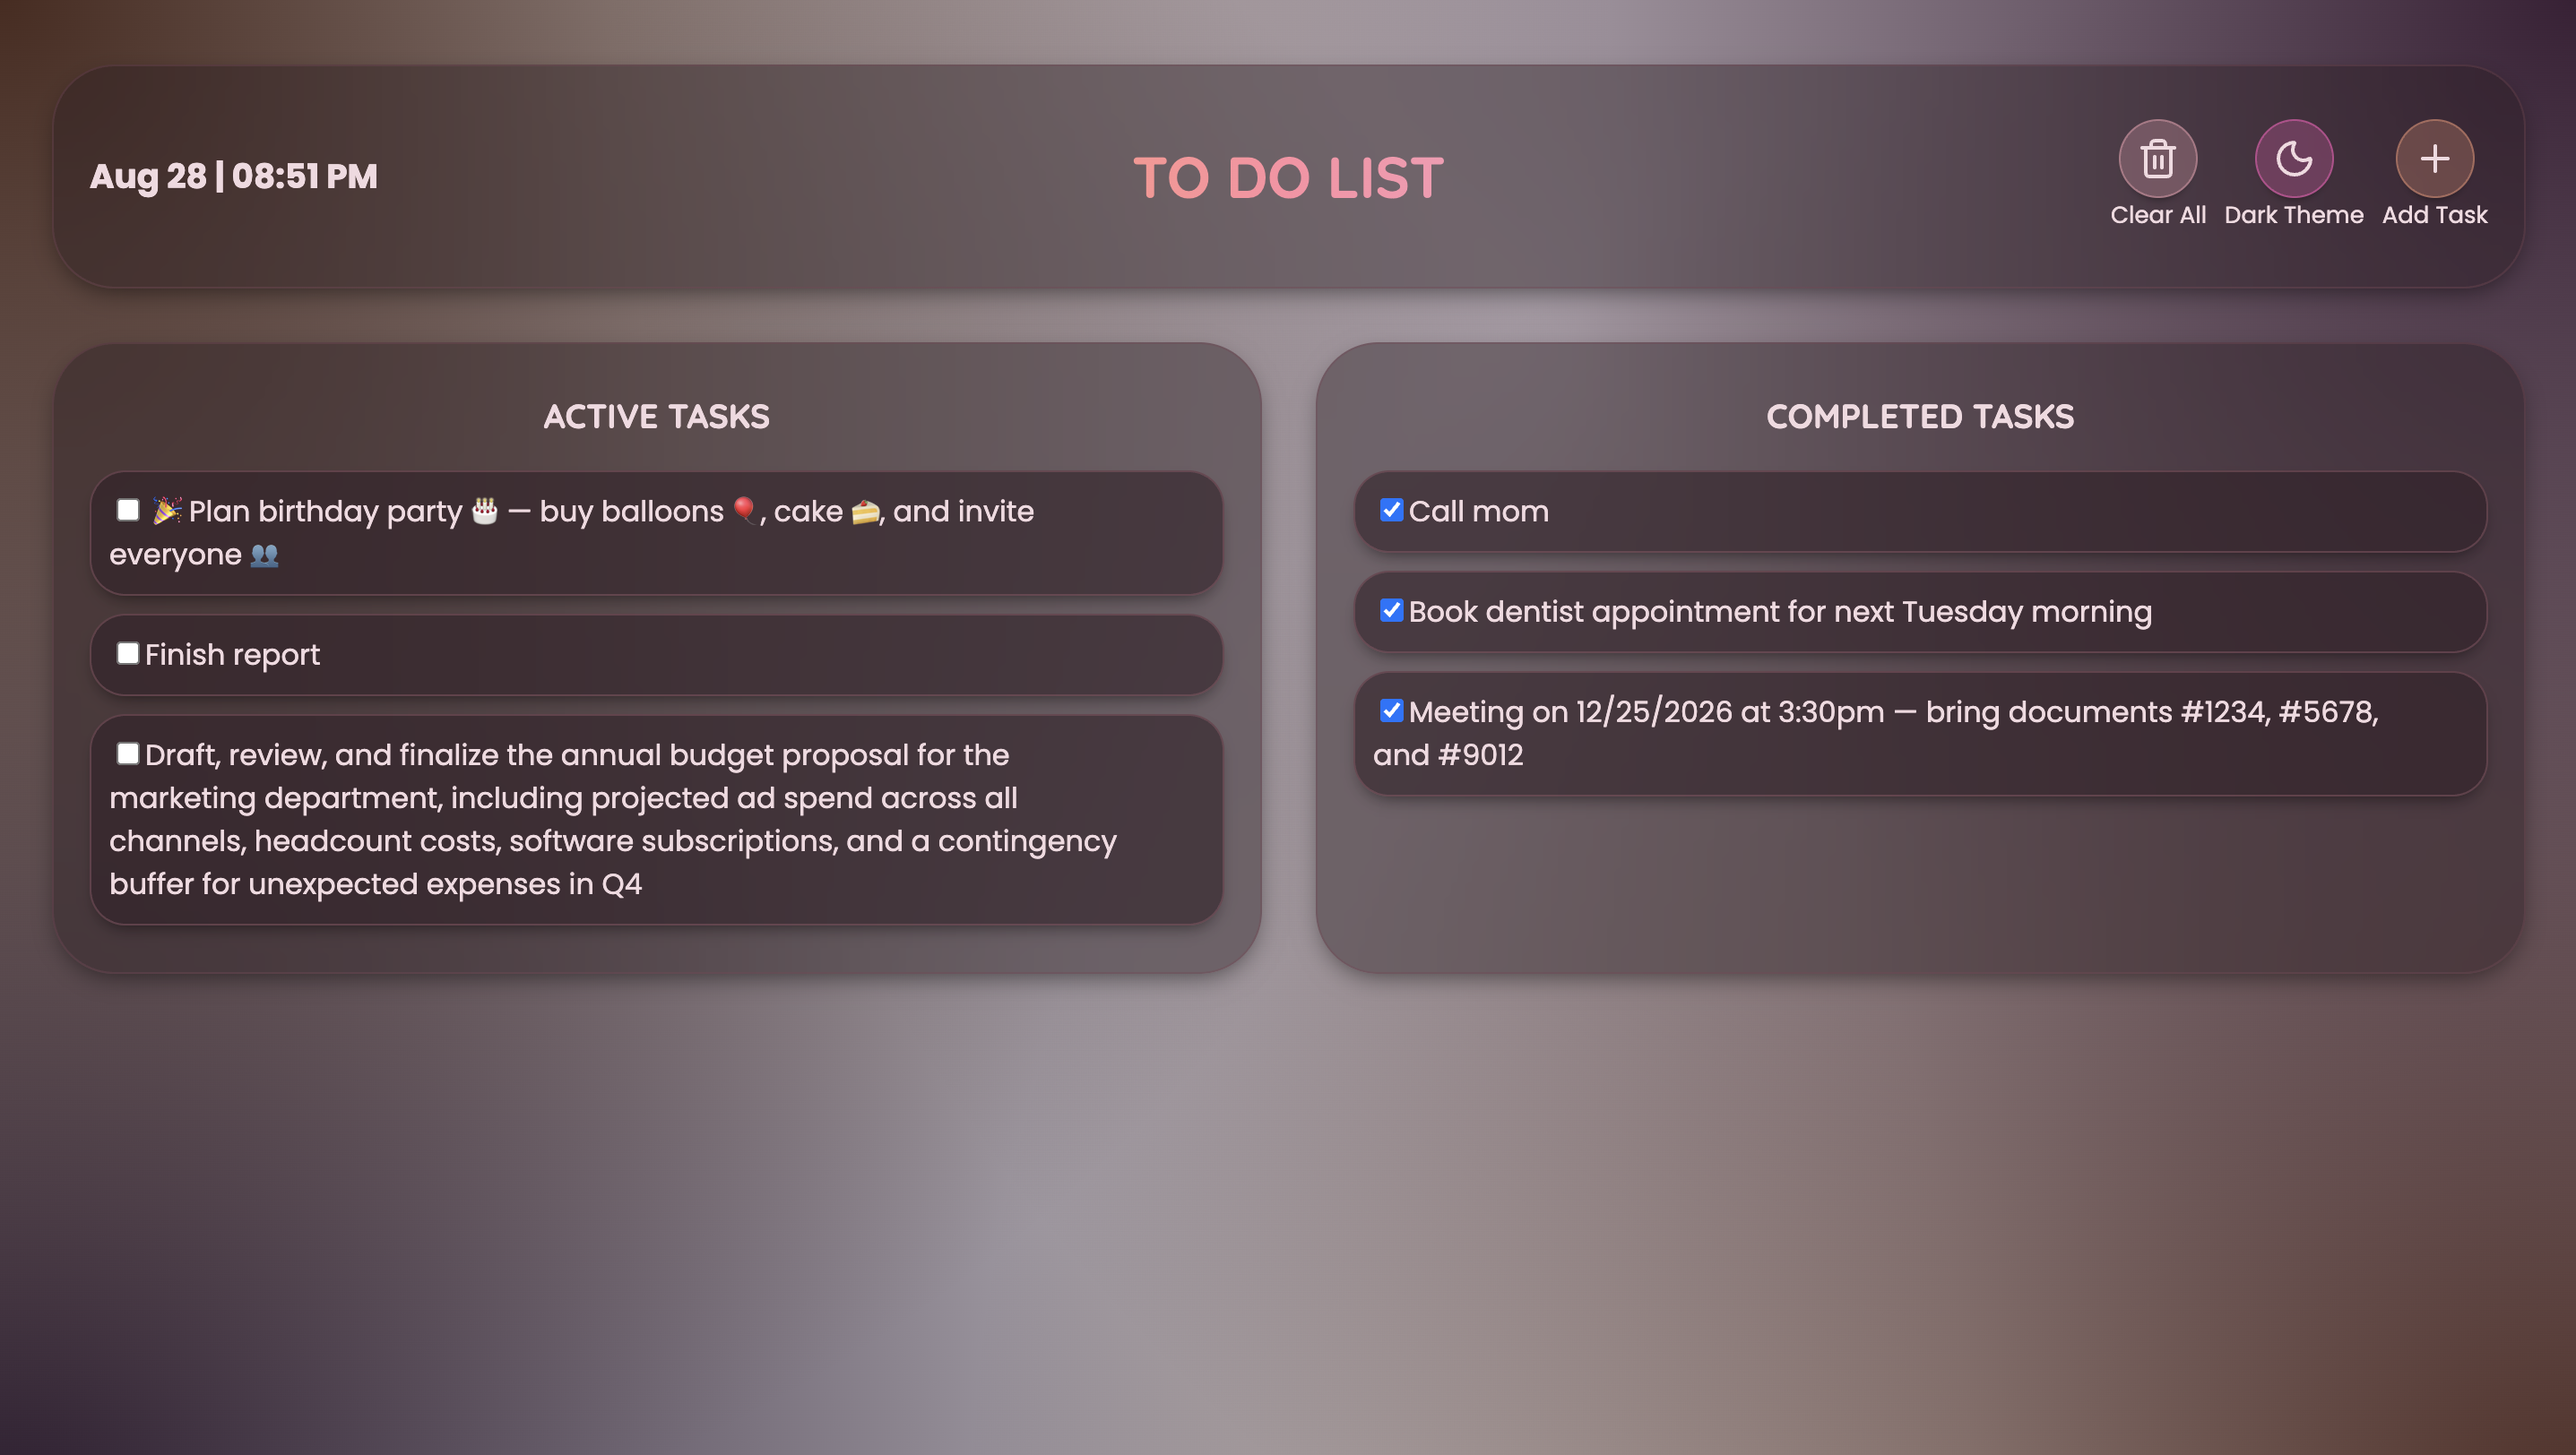
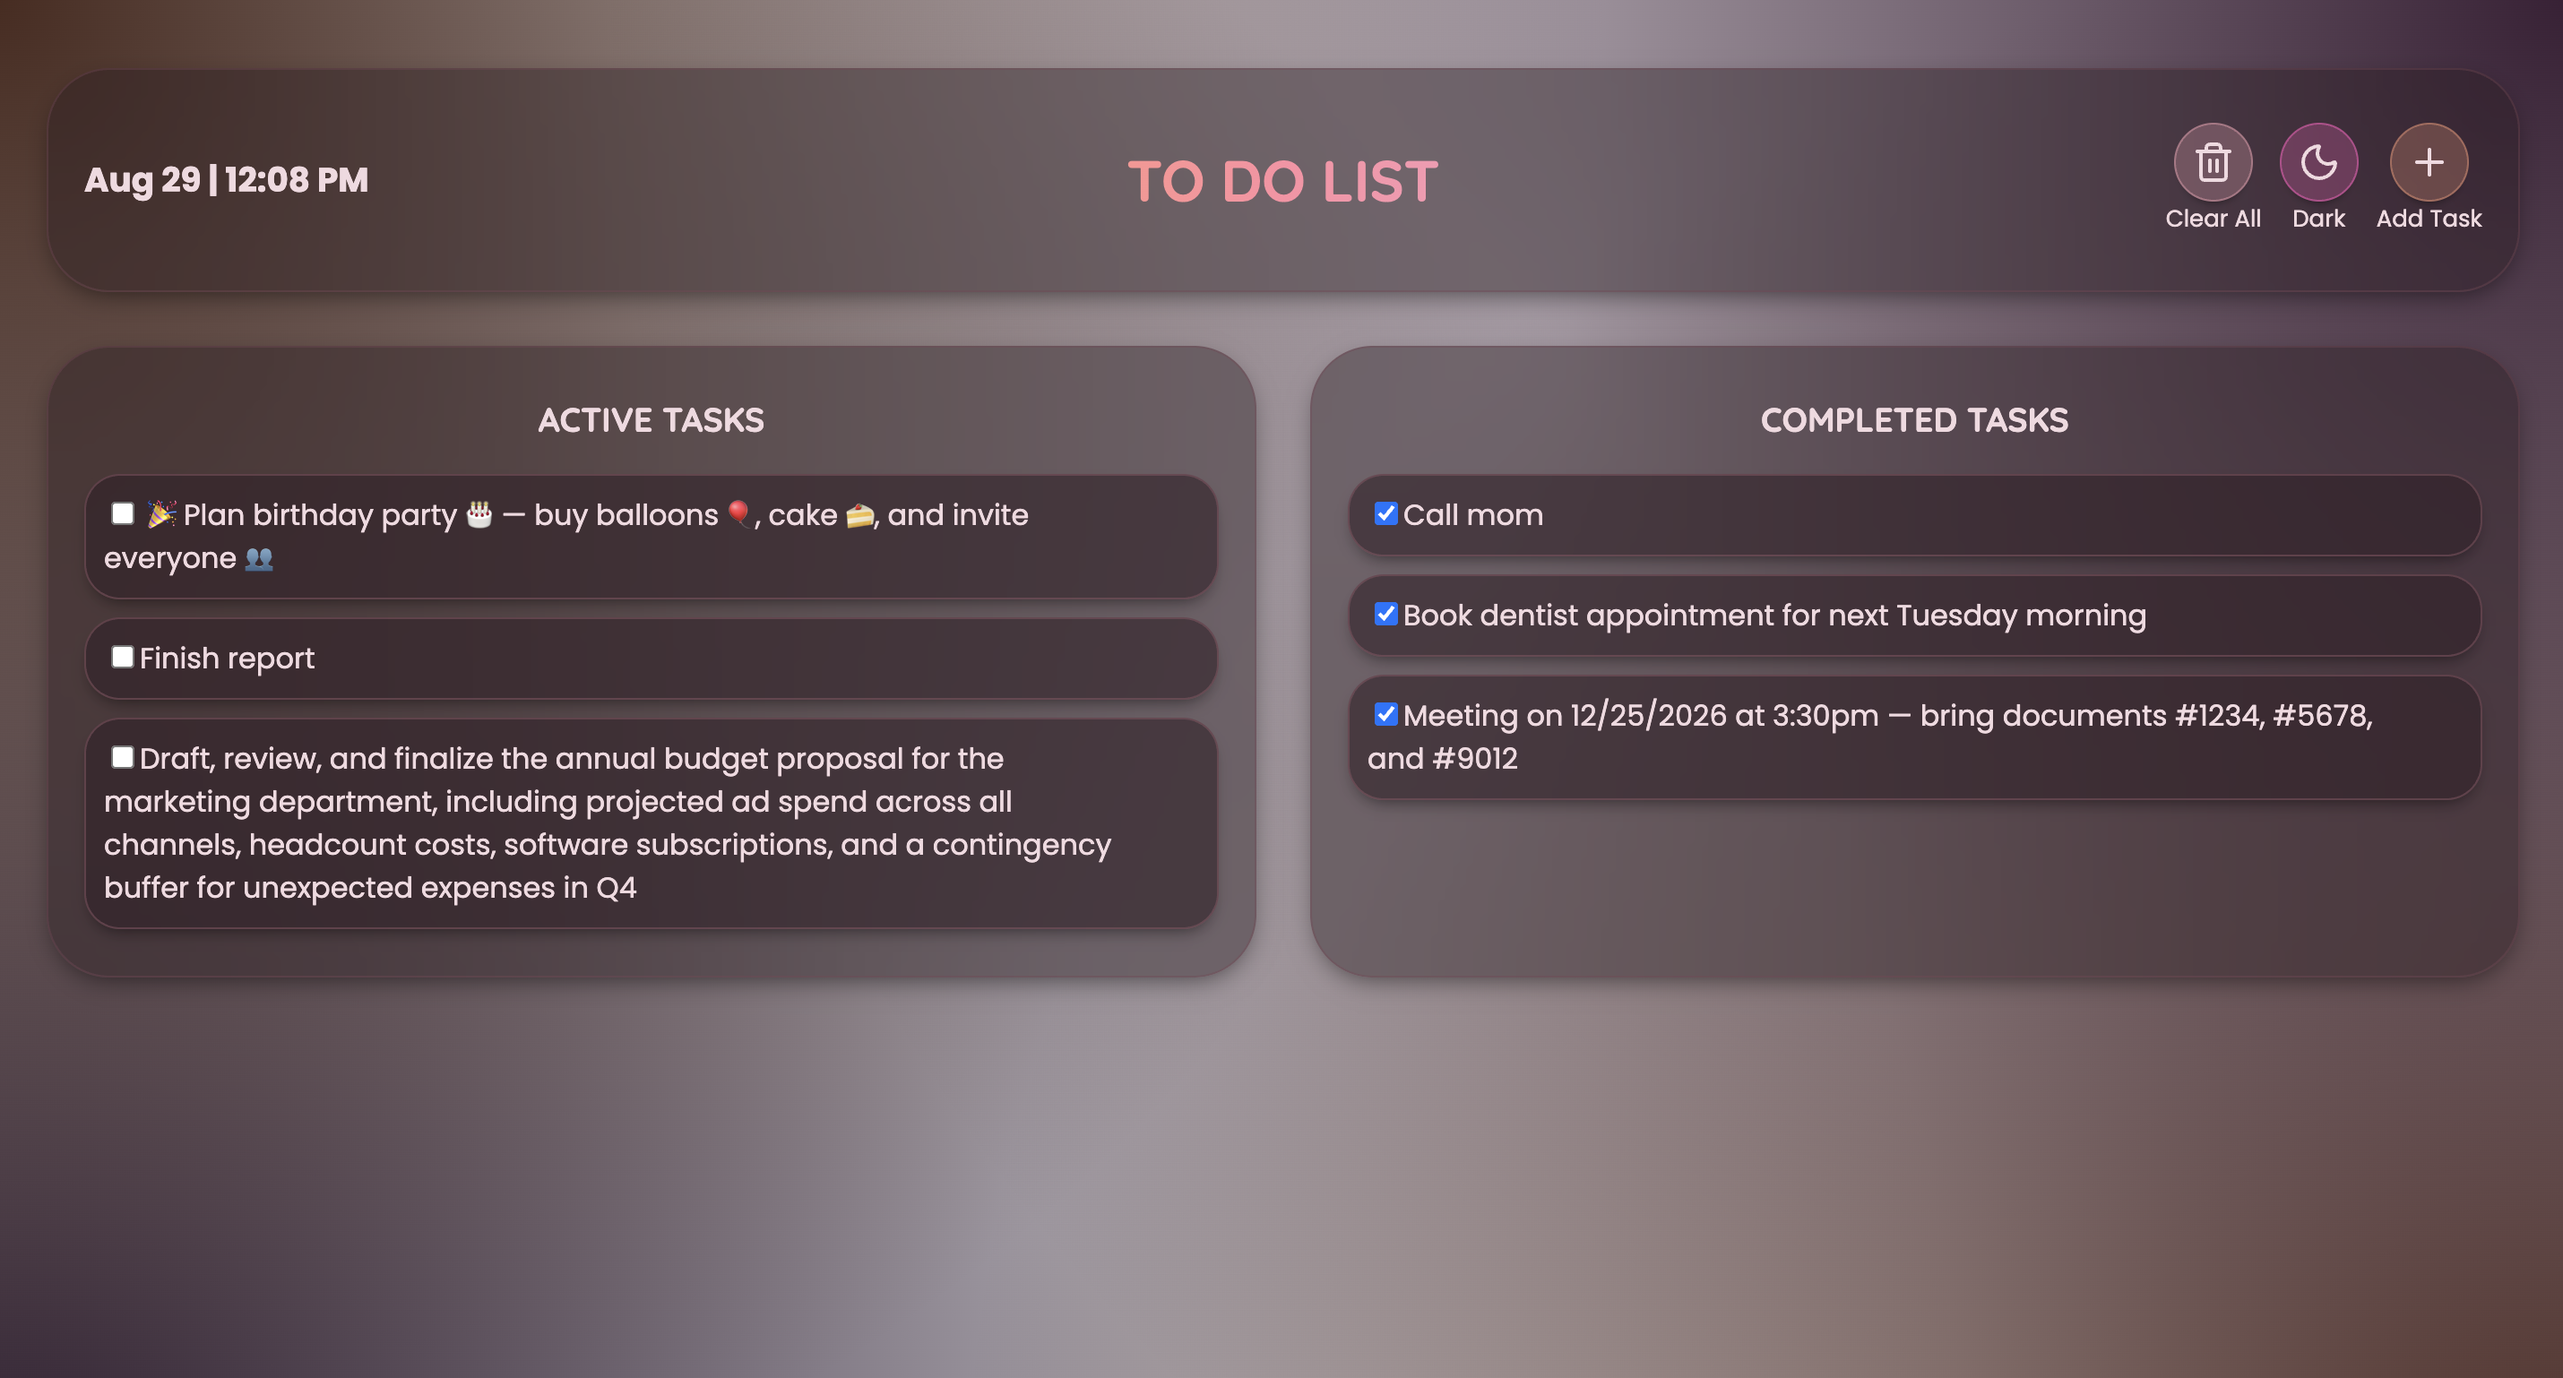
Edit input appearance in ToDoForm and edit mode for ToDoItem

diff --git a/src/App.css b/src/App.css
@@ -16,6 +16,8 @@
   background: var(--glass-bg);
   border: 1px solid var(--glass-border);
   box-shadow: 0 5px 15px -5px var(--shadow-color);
+  gap: 7px;
+  flex-wrap: wrap;
 }
 
 .header::before {
@@ -79,6 +81,29 @@
   border: 1px solid var(--button-add-border);
 }
 
+.addTaskForm {
+  flex-basis: 100%;
+  display: flex;
+  gap: 10px;
+}
+
+.editTaskFormInput,
+.addTaskFormInput {
+  font-size: inherit;
+  background: none;
+  width: 100%;
+  outline: none;
+  border-radius: 10px;
+  field-sizing: content;
+  resize: none;
+}
+
+.editTaskFormInput:focus,
+.addTaskFormInput:focus {
+  outline: 1px solid var(--glass-border-strong);
+  outline-offset: -1px;
+}
+
 .clearAllButton {
   background: var(--button-clear-bg);
   border: 1px solid var(--button-clear-border);
@@ -116,7 +141,8 @@
   box-shadow: 0 5px 15px -5px var(--shadow-color);
 }
 
-.taskRow {
+.taskRow,
+.editTaskForm {
   display: flex;
   justify-content: space-between;
   text-align: left;
@@ -154,9 +180,8 @@
 }
 
 .saveButton {
-  height: 25px;
-  width: 30px;
-  border-radius: 20px;
+  height: 35px;
+  width: 35px;
   display: flex;
   justify-content: center;
   align-items: center;
@@ -190,7 +215,7 @@
 
 @media (max-width: 450px) {
   .header {
-    padding: 15px;
+    padding: 10px;
   }
 
   .clock {
@@ -209,9 +234,9 @@
     z-index: 1;
   }
 
-  .clearAllButton {
-    width: 44px;
-    height: 44px;
+  .clearAllButton, .themeButton {
+    width: 35px;
+    height: 35px;
   }
 
   .activeTasks, .completedTasks {

diff --git a/src/App.jsx b/src/App.jsx
@@ -1,5 +1,6 @@
 // TODO Нажатие на любое место на задаче открывает редактирование
 // TODO Input растягивает под размер родителя
+// TODO Закрытие input при нажатии на любое место
 import './App.css'
 import useLocalStorage from './useLocalStorage.js';
 import ToDoList from "./ToDoList.jsx";
@@ -20,12 +21,7 @@ function App() {
 		setTheme(theme === 'light' ? 'dark' : 'light');
 	}
 
-	const [tasks, setTasks] = useLocalStorage('tasks', [
-		{id: 1, content: 'Task 1', done: false},
-		{id: 2, content: 'Task 2', done: false},
-		{id: 3, content: 'Task 3', done: false},
-		{id: 4, content: 'Task 4', done: true},
-		{id: 5, content: 'Task 5', done: true},]);
+	const [tasks, setTasks] = useLocalStorage('tasks', []);
 
 	function onAddTask(newTask) {
 		const addedTask = {
@@ -89,8 +85,8 @@ function App() {
 						<span className="label">Clear All</span>
 					</div>
 					<Theme theme={theme} toggleTheme={toggleTheme}/>
-					<ToDoForm onAddTask={onAddTask}/>
 				</div>
+				<ToDoForm onAddTask={onAddTask}/>
 			</header>
 			<main className="content">
 				<section className="activeTasks"><h3 className="cardTitle">ACTIVE TASKS</h3><ToDoList tasks={activeTasks}

diff --git a/src/ToDoForm.jsx b/src/ToDoForm.jsx
@@ -27,7 +27,10 @@ function ToDoForm({onAddTask}) {
 	}
 
 	function submitTask() {
-		if (newTask.trim() === '') return;
+		if (newTask.trim() === '') {
+			setIsBoxNeeded(false);
+			return;
+		}
 		onAddTask(newTask);
 		setNewTask('');
 		setIsBoxNeeded(false);
@@ -35,8 +38,10 @@ function ToDoForm({onAddTask}) {
 
 	return (isBoxNeeded ?
 			<>
-				<input type="text" value={newTask} ref={inputRef} onChange={handleInput} onKeyDown={handleKeyDown}/>
+				<div className="addTaskForm">
+				<textarea className="addTaskFormInput" value={newTask} ref={inputRef} onChange={handleInput} onKeyDown={handleKeyDown}/>
 				<button aria-label="Save changes" className="saveButton" type="button" onClick={submitTask}><Check/></button>
+				</div>
 			</> :
 			<div className="buttonLabel">
 				<button aria-label="Add Task" className="addNewTaskButton" type="button" onClick={toggleBoxNeeded}><Plus/>

diff --git a/src/ToDoItem.jsx b/src/ToDoItem.jsx
@@ -33,9 +33,9 @@ function ToDoItem({task, toggleTask, handleDelete, handleEditTask}) {
 		setIsEdit(false);
 	}
 
-	return (isEdit ? <li>
-				<input type="text" value={newContent} ref={inputRef} onChange={handleEditInput} onKeyDown={handleKeyDownForEdit}/>
-				<button aria-label="Save changes" className="saveButton" type="button" onClick={editContent}><Check size={15}/>
+	return (isEdit ? <li className="editTaskForm">
+				<textarea className="editTaskFormInput" value={newContent} ref={inputRef} onChange={handleEditInput} onKeyDown={handleKeyDownForEdit}/>
+				<button aria-label="Save changes" className="saveButton" type="button" onClick={editContent}><Check size={20}/>
 				</button>
 			</li> :
 			<li className="taskRow">

diff --git a/src/index.css b/src/index.css
@@ -20,6 +20,7 @@
   --glass-bg-strong: rgba(253, 246, 240, 0.6);
   --glass-border: rgba(253, 246, 240, 0.5);
   --glass-border-strong: rgba(253, 246, 240, 0.8);
+  --glass-border-strong-input: rgba(140, 85, 100, 0.8);
   --shadow-color: rgba(128, 0, 0, 0.4);
 
   --button-add-bg: rgba(255, 160, 122, 0.6);
@@ -46,6 +47,7 @@
   --glass-bg-strong: rgba(50, 30, 38, 0.6);
   --glass-border: rgba(120, 70, 85, 0.4);
   --glass-border-strong: rgba(140, 85, 100, 0.5);
+  --glass-border-strong-input: rgba(253, 246, 240, 0.5);
   --shadow-color: rgba(0, 0, 0, 0.6);
 
   --button-add-bg: rgba(255, 160, 122, 0.25);

diff --git a/src/Theme.jsx b/src/Theme.jsx
@@ -6,7 +6,7 @@ function Theme({ theme, toggleTheme }) {
 			<button aria-label="Change Theme" className="themeButton" type="button" onClick={toggleTheme}>
 				{theme === 'light' ? <Sun/> : <Moon/>}
 			</button>
-			<span className="label">{theme === 'light' ? 'Light Theme' : 'Dark Theme'}</span>
+			<span className="label">{theme === 'light' ? 'Light' : 'Dark'}</span>
 		</div>
 	)
 }
